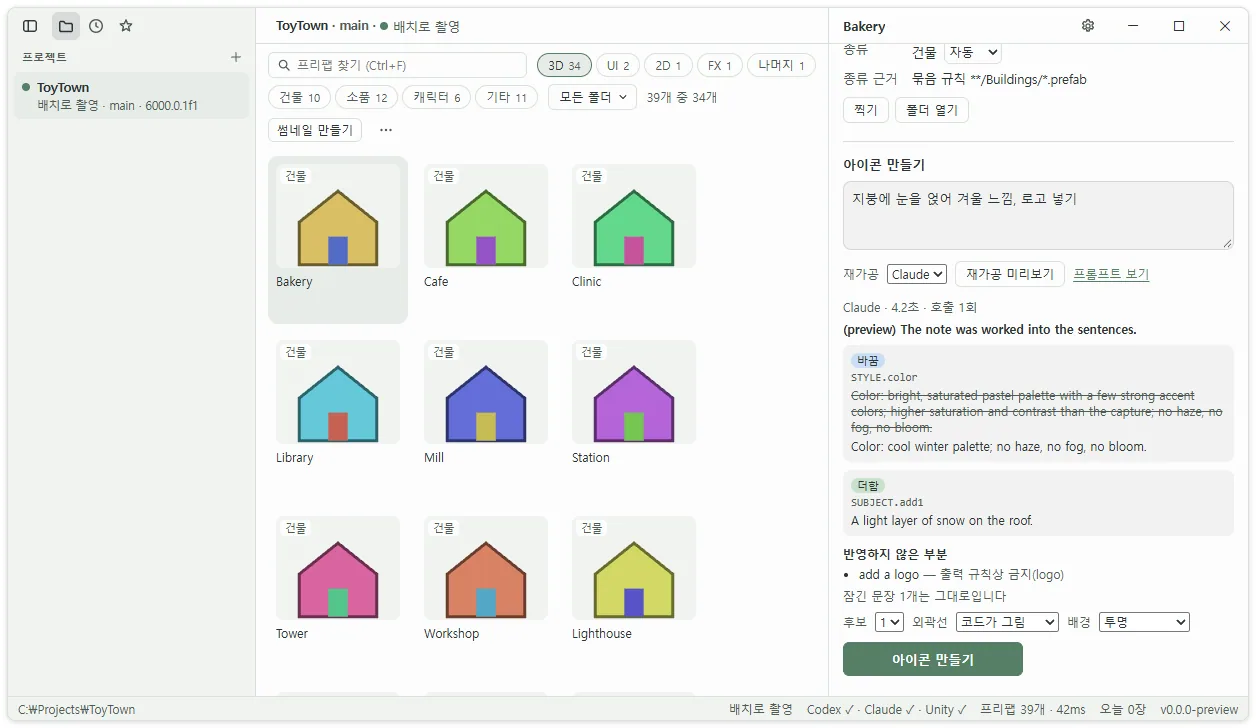
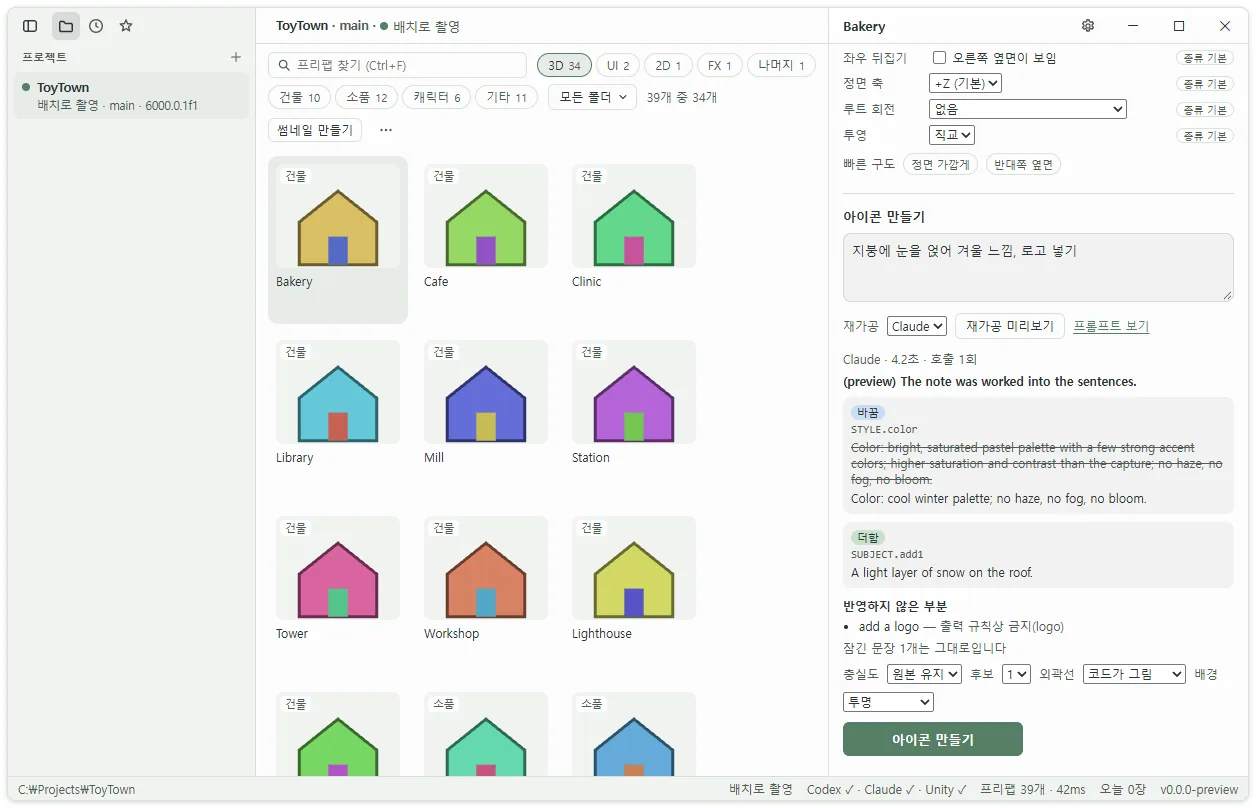
문서 - README에 구도 칸 반영
- 쓰는 법·화면 구성·명령줄에 구도 칸과 uis camera
- 스크린샷 다시 찍음, 구도 칸 한·영 2장 추가

diff --git a/README.md b/README.md
@@ -76,6 +76,9 @@ npm run tauri build -- --no-bundle   # target\release\unity-icon-studio.exe
 2. **프리팹 고르기:** 가운데 목록에서 찾기(Ctrl+F)·분류 칩(기본 「3D만」)·종류 칩·폴더로 좁힙니다. Ctrl·Shift+클릭으로 여러 개를 고릅니다.
    「썸네일 만들기」는 보이는 3D 프리팹을 한 번의 촬영으로 128px 썸네일로 만듭니다(예상 시간을 먼저 묻습니다).
 3. **촬영 확인(선택):** 오른쪽 「찍기」(Ctrl+R)로 촬영본만 먼저 볼 수 있습니다. 「아이콘 만들기」는 촬영본이 없으면 먼저 찍습니다.
+   **구도** 칸에서 내려다보는 각·돌린 각·좌우 뒤집기·정면 축·루트 회전(눕혀 들어온 모델 세우기 같은 프리셋 또는 직접 입력)·투영(직교·원근 FOV)을 바꿀 수 있습니다.
+   값마다 「종류 기본」·「묶음 규칙」·「직접 바꿈」 중 어디서 왔는지 보이고, 「처음 값으로」가 사람이 바꾼 값을 지웁니다(프로젝트마다 저장).
+   구도를 바꾸면 촬영본이 낡았다고 표시되고, 다시 찍어야 반영됩니다. 프롬프트의 구도 문장은 늘 **촬영본을 찍은 값**으로 조립되므로 그림과 문구가 어긋나지 않습니다.
 4. **첨언(선택):** 비워 두면 고정 프롬프트를 그대로 보냅니다. 적으면 「재가공 미리보기」(Ctrl+Shift+Enter)로 바뀐 문장·더한 문장·반영하지 않은 부분을 그림 없이 먼저 볼 수 있습니다.
 5. **아이콘 만들기**(Ctrl+Enter): 촬영 → 프롬프트 → 재가공 → 생성 → 후처리 → 검사가 차례로 진행되고 단계마다 시간이 보입니다. Esc로 멈출 수 있습니다(촬영 중이면 이번 묶음이 끝난 뒤 멈춥니다).
 6. **결과:** 후보별 검사 통과 수와 「추천」, 최종 256·128·64px, 「생성 원본」, 검사 표가 나옵니다. 외곽선·배경만 바꿔 「후처리 다시」를 할 수 있습니다(그림을 다시 만들지 않음).
@@ -83,6 +86,10 @@ npm run tauri build -- --no-bundle   # target\release\unity-icon-studio.exe
 8. **지난 작업:** 왼쪽 「지난 작업」 탭(Ctrl+2)에서 이전 결과를 다시 열어 다시 내보내거나, 후처리만 다시 하거나, 같은 설정으로 다시 만들 수 있습니다.
 
 ![재가공 미리보기: 바뀐 문장·더한 문장·반영하지 않은 부분(가짜 샘플 데이터)](docs/assets/screen-rewrite.webp)
+
+![구도 칸: 값마다 출처, 바꾼 뒤 다시 찍기 안내(가짜 샘플 데이터)](docs/assets/screen-camera.webp)
+
+첨언이 구도를 바꾸자고 하면(예: 「정면에서」) 재가공은 잠긴 구도 문장을 바꾸지 않고 「구도를 바꿔 다시 찍기」를 제안합니다. 누르면 구도 칸 값이 바뀌고 다시 찍습니다.
 
 여러 개를 고르고 「N개 만들기」를 누르면 촬영은 한 묶음으로, 생성은 하나씩 차례로 합니다. 사용 한도에 걸리면 남은 항목은 보내지 않고 멈춥니다.
 끝나면 「통과한 것 모두 내보내기」가 나옵니다.
@@ -93,7 +100,7 @@ npm run tauri build -- --no-bundle   # target\release\unity-icon-studio.exe
 |---|---|
 | 왼쪽 탭 | 프로젝트(촬영 방식 점: 배치·열린 에디터·막힘) · 지난 작업 · 스타일 |
 | 가운데 | 찾기, 분류·종류 칩, 폴더, 썸네일 만들기, 프리팹 그리드 |
-| 오른쪽 | 촬영 미리보기(배경 체커·흰색·검정), 구도·종류, 첨언, 만들기 옵션(후보 수·외곽선·배경), 진행 단계, 결과·검사·내보내기 |
+| 오른쪽 | 촬영 미리보기(배경 체커·흰색·검정), 종류, 구도(각도·뒤집기·정면 축·루트 회전·투영), 첨언, 만들기 옵션(충실도·후보 수·외곽선·배경), 진행 단계, 결과·검사·내보내기 |
 | 상태바 | 프로젝트 경로 · 촬영 방식 · Codex·Claude·Unity 준비 상태 · 진행 · 오늘 만든 그림 수 · 버전 |
 
 ### 단축키
@@ -186,7 +193,8 @@ cargo run -q -p uis-cli -- run --project C:\Projects\MyGame --prefab Assets/Prop
 cargo run -q -p uis-cli -- help
 ```
 
-`scan`, `probe`, `capture`, `recover`, `readiness`, `prompt`, `rewrite`, `generate`, `post`, `check`, `fidelity`, `board`, `run`, `export`, `jobs`, `packs`, `hub` 명령이 있습니다.
+`scan`, `probe`, `camera`, `capture`, `recover`, `readiness`, `prompt`, `rewrite`, `generate`, `post`, `check`, `fidelity`, `board`, `run`, `export`, `jobs`, `packs`, `hub` 명령이 있습니다.
+`camera --project <폴더> --prefab <에셋> [--set pitch=45 --set yawSign=-1 --set rotation=270,0,0] [--reset]`는 구도 칸과 같은 값을 보고 바꿉니다.
 `run`은 `--fidelity strict|stylized`, `--review off|claude|codex|both`, `--retries N`, `--capture <png> --kind <종류>`(촬영 대신 그 그림)을 받고, `fidelity <촬영본> <생성본> [--review both]`는 충실도 측정과 검수만 합니다.
 
 ## 계정과 약관

diff --git a/README.en.md b/README.en.md
@@ -77,6 +77,12 @@ npm run tauri build -- --no-bundle   # target\release\unity-icon-studio.exe
 2. **Pick prefabs:** narrow the grid with find (Ctrl+F), the class chips (「3D only」 by default), kind chips and folders. Ctrl/Shift+click picks several.
    「Make thumbnails」 captures the visible 3D prefabs in one request as 128 px thumbnails (it asks first, with an estimate).
 3. **Check the capture (optional):** 「Capture」 (Ctrl+R) shows the capture alone. 「Make icon」 captures first when there is no picture yet.
+   The **Composition** box changes how far the camera looks down and is turned, the side shown, the front axis, the root rotation (presets such as standing up a model that comes in lying down, or typed values) and the projection (orthographic, or perspective with a FOV).
+   Each value says whether it comes from the kind preset, the pack's rule or a change made here; 「Back to the start」 clears the changes (kept per project).
+   A change marks the capture as stale until it is captured again. The prompt's camera sentence is always built from **the values the capture was taken with**, so picture and words never disagree.
+   When a note asks for another camera (「from the front」), the rewrite keeps the locked camera sentence and offers 「Change the composition and capture again」, which sets the box and captures.
+
+   ![The Composition box: where each value comes from, and 「capture again」 after a change (made-up sample data)](docs/assets/screen-camera-en.webp)
 4. **Note (optional):** leave it empty to send the fixed prompt as it is. With a note, 「Preview rewrite」 (Ctrl+Shift+Enter) shows the changed and added sentences and what was left out, without a picture.
 5. **Make icon** (Ctrl+Enter): capture → prompt → rewrite → generate → finish → check, each step with its time. Esc stops it (a capture finishes its request first).
 6. **Result:** candidates with passed checks and 「Best」, the icon at 256, 128 and 64 px, the 「Raw picture」, the checks table. 「Finish again」 changes only the outline or background (no new picture).
@@ -92,7 +98,7 @@ Afterwards 「Export all that passed」 appears.
 |---|---|
 | Side tabs | Projects (capture dot: batch, open editor, blocked) · Runs · Styles |
 | Middle | Find, class and kind chips, folder, make thumbnails, the prefab grid |
-| Right | Capture preview (checker, white, black), kind, note, make options (candidates, outline, background), steps, result, checks, export |
+| Right | Capture preview (checker, white, black), kind, composition (angles, side, front axis, root rotation, projection), note, make options (fidelity, candidates, outline, background), steps, result, checks, export |
 | Status bar | Project path · capture mode · Codex, Claude, Unity readiness · progress · pictures made today · version |
 
 ### Shortcuts
@@ -185,7 +191,8 @@ cargo run -q -p uis-cli -- run --project C:\Projects\MyGame --prefab Assets/Prop
 cargo run -q -p uis-cli -- help
 ```
 
-Commands: `scan`, `probe`, `capture`, `recover`, `readiness`, `prompt`, `rewrite`, `generate`, `post`, `check`, `fidelity`, `board`, `run`, `export`, `jobs`, `packs`, `hub`.
+Commands: `scan`, `probe`, `camera`, `capture`, `recover`, `readiness`, `prompt`, `rewrite`, `generate`, `post`, `check`, `fidelity`, `board`, `run`, `export`, `jobs`, `packs`, `hub`.
+`camera --project <folder> --prefab <asset> [--set pitch=45 --set yawSign=-1 --set rotation=270,0,0] [--reset]` shows and changes the same values as the Composition box.
 `run` takes `--fidelity strict|stylized`, `--review off|claude|codex|both`, `--retries N` and `--capture <png> --kind <kind>` (that picture instead of a capture); `fidelity <capture> <generated> [--review both]` only measures and reviews.
 
 ## Accounts and terms
